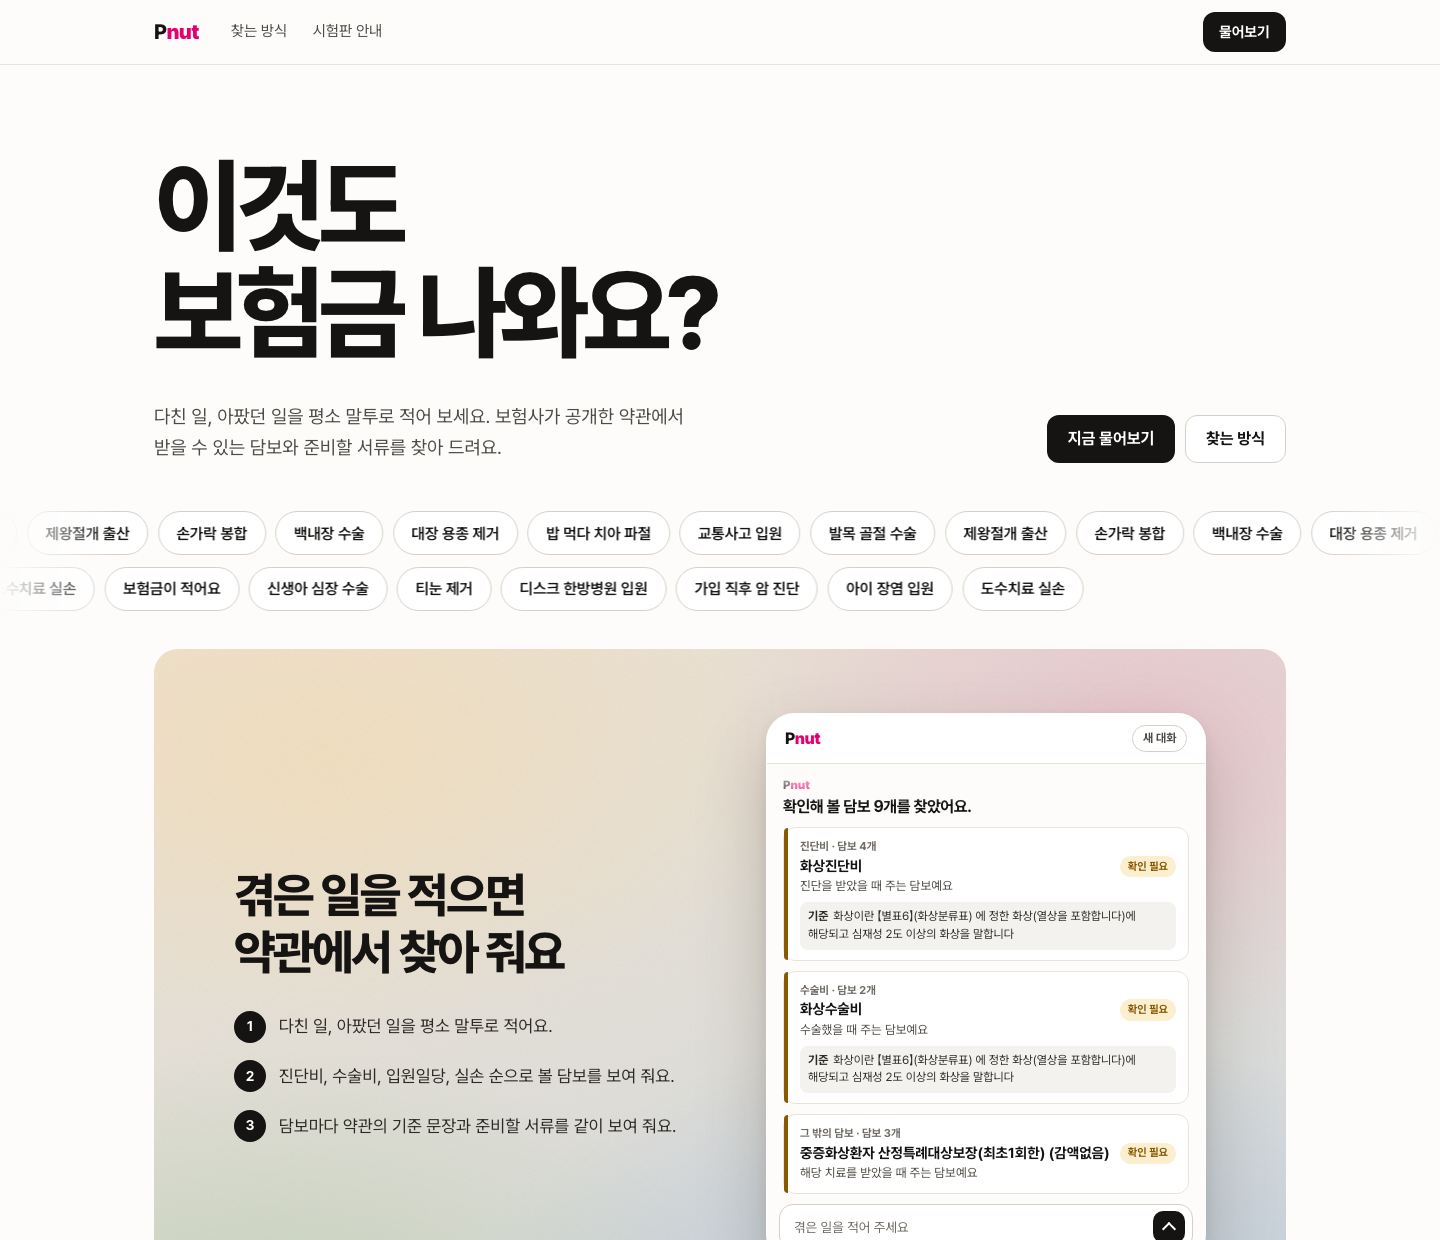
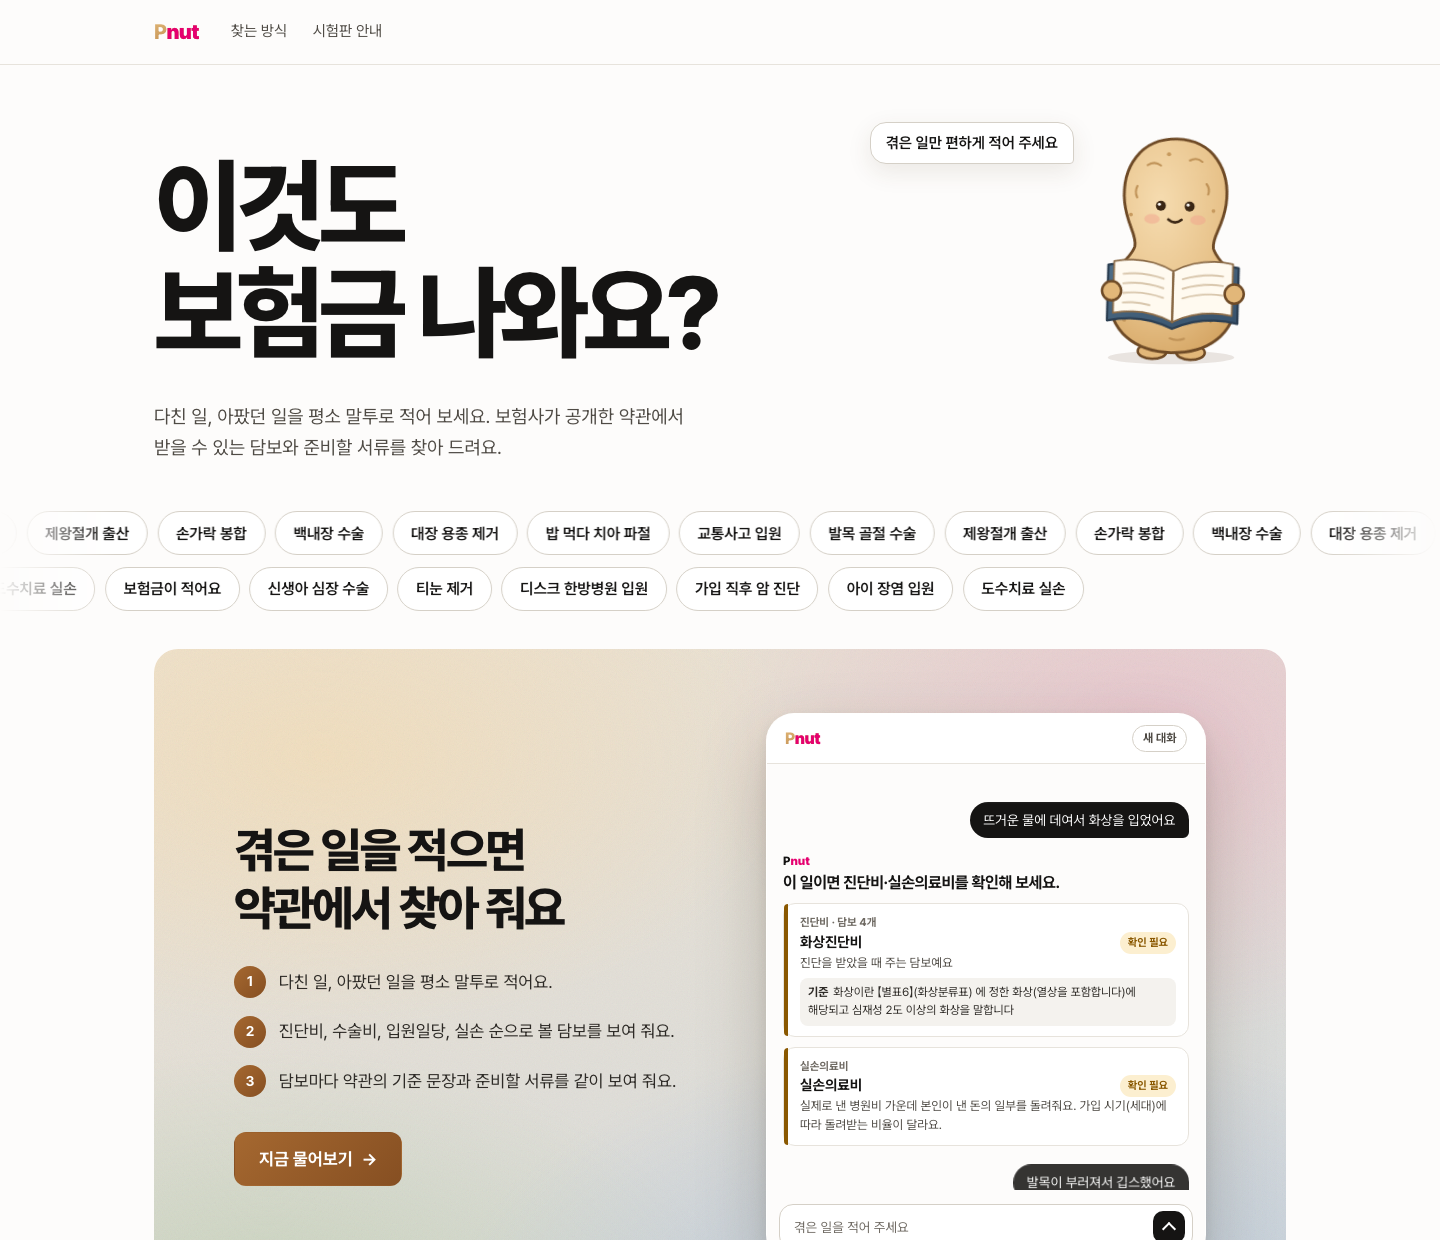
docs: 큰 분류 답과 땅콩 소개 화면 반영(foundshu-00042)
- 작동 원리에 사건 → 질병/상해 → 큰 분류 단계와 상태 셋(해당·그랬다면·해당 안 됨) 추가
- 설계 판단 두 줄('2주' 낱말이 끌어온 엉뚱한 첫 카드, 병 이름만 맞는 담보를 '해당'으로 올린 문제)
- 큰 분류 초안 20문항 측정과 한계, 질문 62개 평가 유지 기록
- 화면 4장을 배포판과 같은 코드로 다시 찍고 해시·설명 갱신, 다음 단계 정리

diff --git a/README.md b/README.md
@@ -2,7 +2,7 @@
 
 [![검증](https://github.com/wpalswpa/foundshu-rag-evidence/actions/workflows/verify.yml/badge.svg)](https://github.com/wpalswpa/foundshu-rag-evidence/actions/workflows/verify.yml)
 
-다친 일이나 아팠던 일을 평소 말로 적으면, 보험사가 공시한 약관 원문에서 확인할 담보를 찾아 진단비, 수술비, 입원일당, 실손 순으로 보여 준다. 담보마다 약관의 기준 문장, 빠지는 경우, 준비할 서류를 함께 붙인다. 보험금이 나오는지 정하지는 않는다. 약관을 펴기 전에 "어느 담보의 어느 조항을 읽어야 하는가"까지 좁혀 주는 것이 목적이다. 2026-11-12에 이름을 찾았슈에서 피넛(로고 Pnut)으로 바꿨다.
+다친 일이나 아팠던 일을 평소 말로 적으면, 먼저 "이 일이면 진단비·실손의료비를 확인해 보세요"처럼 확인할 보험금의 큰 분류를 알려 준다. 분류마다 보험사가 공시한 약관 원문에서 찾은 담보를 진단비, 수술비, 입원일당, 실손 순으로 보이고, 약관의 기준 문장, 빠지는 경우, 준비할 서류를 함께 붙인다. 보험금이 나오는지 정하지는 않는다. 약관을 펴기 전에 "어느 담보의 어느 조항을 읽어야 하는가"까지 좁혀 주는 것이 목적이다. 2026-11-12에 이름을 찾았슈에서 피넛(로고 Pnut)으로 바꿨다.
 
 현재 상태는 다음과 같다.
 
@@ -12,7 +12,7 @@
 
 ## 화면
 
-![소개 화면. 큰 제목 '이것도 보험금 나와요?', 흐르는 예시 단추, 휴대폰 틀 안에 실제 답이 쌓이는 화면](docs/images/intro.png)
+![소개 화면. 큰 제목 '이것도 보험금 나와요?', 책 읽는 땅콩과 말풍선, 흐르는 예시 단추, 휴대폰 틀 안에 실제 답이 쌓이는 화면](docs/images/intro.png)
 
 <p>
   <img src="docs/images/answer-burn.png" width="250" alt="화상 질문의 답. 진단비 묶음의 대표 화상진단비와 심재성 2도 이상이라는 약관 기준 줄, 같은 종류 담보 목록">
@@ -22,8 +22,8 @@
 
 | 질문 | 화면이 보여 주는 것 |
 |---|---|
-| 뜨거운 물에 데여서 화상을 입었어요 | 진단비 묶음의 대표가 화상진단비다. '기준' 줄에 약관 정의(심재성 2도 이상의 화상)를 옮기고, 다른 회사·다른 이름의 같은 종류 담보는 아래 목록으로 접어 둔다 |
-| 백내장 수술했어요 | 담보 12개를 진단비·수술비·종별 수술비(1~5종)·실손 네 묶음으로 보인다. 이름에 '백내장 제외'가 붙은 담보는 빼고, 왜 뺐는지 안내에 남긴다. 준비할 서류는 확인 목록으로 보이고, 실손 묶음 아래에서 실손 보험금 계산을 열 수 있다 |
+| 뜨거운 물에 데여서 화상을 입었어요 | 첫 줄은 "이 일이면 진단비·실손의료비를 확인해 보세요"다. 진단비 칸의 대표가 화상진단비이고, '기준' 줄에 약관 정의(심재성 2도 이상의 화상)를 옮긴다. 다른 회사·다른 이름의 같은 종류 담보는 아래 목록으로 접어 두고, 수술비·입원일당은 '수술했다면', '입원했다면' 줄로 따로 둔다 |
+| 백내장 수술했어요 | 첫 줄은 "이 일이면 질병 수술비·실손의료비를 확인해 보세요"다. 질병 수술비 칸에 증권에서 찾아볼 담보 이름 예시와 수술비·종별 수술비(1~5종) 묶음을 넣고, 실손 칸 아래에서 실손 보험금 계산을 열 수 있다. 이름에 '백내장 제외'가 붙은 담보는 빼고, 왜 뺐는지 안내에 남긴다 |
 | 보험금을 적게 받았어요 | 경위가 없어 담보를 늘어놓지 않고, 대표 사유 네 가지를 고르게 한다 |
 
 ## 작동 원리
@@ -38,7 +38,8 @@ flowchart TD
   P --> S["약관 색인 검색<br>SQLite FTS5 3글자 색인, 특약 단위"]
   S --> N["이름이 맞는 특약 보충<br>화상 → 화상진단비"]
   N --> X["제외 대조<br>이름에서 뺀 병 → 자리를 주지 않고 안내<br>면책 문장에 걸림 → 같은 분류 뒤로"]
-  X --> G["담보 묶음<br>진단비 · 수술비 · 종별 수술비 · 입원일당 · 그 밖 · 실손<br>묶음마다 대표 1장 + 같은 종류 목록"]
+  X --> K["큰 분류<br>질병·상해 → 진단비 · 수술비 · 입원일당 · 실손 등<br>해당 / 그랬다면 / 해당 안 됨"]
+  K --> G["분류 칸 안의 담보 묶음<br>묶음마다 대표 1장 + 같은 종류 목록"]
 ```
 
 1. **경위 확인**: 질문에서 일반어(보험금, 청구, 입원, 수술 등)와 처리 문제 낱말(적게, 거절 등)을 빼고 남는 낱말이 없으면 검색하지 않는다. 대신 사유를 선택지로 묻는다. 바로 앞 답이 되묻기였으면 다시 묻지 않는다.
@@ -46,7 +47,8 @@ flowchart TD
 3. **색인 검색**: 약관 PDF를 특약별 조각(지급, 면책, 한도, 정의 등 역할 표시)으로 나눠 SQLite FTS5 3글자 색인에 넣었다. 낱말 점수가 높은 특약을 찾되, 같은 회사의 같은 이름 담보(여러 상품에 같은 담보가 든 경우)는 한 자리만 쓴다.
 4. **이름 보충**: 질문 낱말이 특약 이름에 들어 있으면(화상 → 화상진단비) 점수와 관계없이 후보에 넣는다.
 5. **제외 대조**: 약관은 보장하는 병을 일일이 적지 않고 빼는 병만 이름에 적는다. 그래서 병 이름으로 검색하면 그 병을 뺀 특약이 먼저 걸린다. 이름의 '(…제외)' 괄호에 질문의 병이 있으면 순위를 매길 때부터 자리를 주지 않고 안내에 남긴다. 면책 문장에 질문의 병이 걸린 담보는 같은 분류의 다른 담보 뒤로 보낸다.
-6. **묶음 구성**: 담보를 진단비, 수술비, 종별 수술비(1~5종 등), 입원일당, 그 밖, 실손 묶음으로 보인다. 묶음마다 대표 담보 한 장(지급 조항의 정의 문장을 '기준' 줄로)과 같은 종류 담보 목록을 두고, 목록을 누르면 그 자리에서 약관 문장이 펼쳐진다. 사건이 질병이면 상해 담보를 뒤로 보낸다(반대도 같다). 수술이면 수술분류표에서 몇 종인지 읽는다. 치료를 받았으면 실손 묶음을 넣는다.
+6. **큰 분류**: 질문한 사람의 가입 상황을 모르므로 담보 이름을 맞히는 대신 확인할 보험금의 종류를 먼저 정한다. 사건을 질병과 상해로 나누고(온톨로지의 질환 구분, 없으면 원인 낱말), 진단비·수술비·입원일당·간병·그 밖의 치료비·실손마다 상태를 셋 중 하나로 정한다. '해당'은 질문에 근거가 있을 때, '그랬다면'은 질문에 없지만 그 병에서 흔할 때(수술했다면 → 수술비), '해당 안 됨'은 약관이 보상하지 않는다고 정한 경우다(임신·출산의 실손은 실손 표준약관 쪽수와 함께 보인다). 담보 이름은 '증권에서 이런 이름을 찾아보세요'로 예시만 보인다. 규칙은 데이터 표 한 곳에 둔다.
+7. **묶음 구성**: 담보를 진단비, 수술비, 종별 수술비(1~5종 등), 입원일당, 그 밖, 실손 묶음으로 보인다. 묶음마다 대표 담보 한 장(지급 조항의 정의 문장을 '기준' 줄로)과 같은 종류 담보 목록을 두고, 목록을 누르면 그 자리에서 약관 문장이 펼쳐진다. 사건이 질병이면 상해 담보를 뒤로 보낸다(반대도 같다). 수술이면 수술분류표에서 몇 종인지 읽는다. 치료를 받았으면 실손 묶음을 넣는다.
 
 **읽기 방식**은 구현했지만 공개판에서는 꺼 두었다. 위 검색에 더해 다음을 거친다.
 
@@ -70,6 +72,8 @@ flowchart TD
 | 약관을 14개에서 71개로 늘리자 같은 담보 카드가 겹치고 답이 길어졌다(화상 질문에 화상진단비 5장) | 같은 회사·같은 이름 담보는 검색 자리 하나, 같은 종류 담보는 한 묶음(대표 1장 + 목록) | 담보마다 카드 한 장이면 약관이 늘수록 답이 길어진다. 같은 종류 담보는 지급 조건의 짜임과 서류가 비슷하다 |
 | "갑상선에 혹… 암이래요"처럼 떨어져 쓰면 유사암 담보를 못 찾았다 | 사건 읽기가 부위로 묶은 질환과 약관의 묶음 이름(유사암)을 검색 계획에 넣는다 | 낱말 점수만으로는 이름이 다른 유사암진단비가 20위 밖으로 밀렸다 |
 | 판단 목록이 코드에 흩어져 있었다 | 담보 순서, 일반어, 제외 표시, 되묻기 선택지를 데이터 파일로 분리하고 코드는 표만 적용한다 | 목록이 코드 안에 있으면 바꿀 때마다 코드를 고쳐야 한다 |
+| 질문 낱말 하나가 엉뚱한 특약을 첫 카드로 끌어왔다("어머니가 뇌경색으로 쓰러지셔서 2주 입원" → '2주' 낱말로 자동차사고상해진단(2주 이상)) | 숫자와 단위 낱말은 검색어에서 빼고, 답은 사건 → 질병/상해 → 큰 분류를 먼저 정한 뒤 그 분류 안에 담보를 보인다 | 가입 상황을 모르는 질문에서 담보 이름을 정확히 맞히는 것은 목표가 될 수 없다. 큰 분류는 수가 적어 규칙 표로 정하고 빠짐·엉뚱함을 잴 수 있다 |
+| 약관에 병 이름이 든 담보가 있으면 그 분류를 바로 '해당'으로 올렸다(디스크 진단비, 독감 항바이러스제 치료비 등 11개) | 진단비는 진단비 담보가 흔한 병만 '해당', 나머지는 '그 병의 진단비가 있는 보험이라면'으로 둔다. 치료비는 사용자가 말한 치료 낱말만 '해당'으로 본다 | 일부 상품에만 있는 담보까지 '해당'으로 올리면 엉뚱한 분류가 된다 |
 | 학습용 질문 기록이 클라우드에서 남지 않았다 | 동의한 질문만 가려서, 질문 하나를 파일 하나로 저장소 버킷에 답을 보내기 전에 올린다. 버킷에는 365일 삭제 규칙을 건다 | 컨테이너 안 SQLite 파일은 요청이 없어 인스턴스가 0대로 줄면 사라졌다. SQLite 파일을 버킷에 붙여 쓰면 잠금 문제가 생긴다. 답을 보낸 뒤 올리면 Cloud Run이 CPU를 거의 멈춰 기록이 늦거나 빠질 수 있다 |
 
 ## 측정 결과
@@ -84,6 +88,7 @@ flowchart TD
 
 - 같은 질문으로 잰 변화: 첫 측정(약관 14개) 찾음 10 · 잘못 표시 10 · 못 찾음 12 → '안 나와요' 단정을 없앤 뒤 20 · 0 · 12 → 약관 71개와 묶음 질환·실손 보강 뒤 23 · 0 · 9.
 - 못 찾은 9개에는 고객 말과 약관 말이 먼 질문("온몸 사진 찍는 검사" → 양전자단층촬영, "간질" → 뇌전증, "피를 못 만드는 병" → 재생불량성빈혈)과, 담보가 아니라 계약 조건을 묻는 질문(특별조건부, 이륜자동차 부담보)이 섞여 있다.
+- 큰 분류(2026-11-12): 질문 20개(필수 분류 칸 39개)의 정답을 구현 전에 약관 구조로 적어 두고 쟀다. 첫 측정에서 엉뚱한 분류 11개가 나와 규칙을 고친 뒤 빠진 분류 0/39, 엉뚱한 분류 0, 나오면 안 되는 분류 0, 질병·상해 판단 틀림 0이다. 정답은 실무자가 확인하기 전의 초안이고, 이 세트로 규칙을 다듬었으므로 세트 밖 질문에서의 성능을 보여 주지는 않는다. 위 질문 62개 평가는 큰 분류를 넣은 뒤에도 같다(찾음 23 · 잘못 표시 0 · 못 찾음 9, 과장 0).
 - 공개판(클라우드, CPU 1개) 응답: 2026-11-12 리비전 foundshu-00041에서 질문 4개로 쟀다. 인스턴스가 켜져 있을 때 0.3~1.1초, 새로 뜬 뒤 첫 질문은 2.2초였다.
 - 읽기 방식은 금감원 분쟁 사례 181개로 평가 자료를 답을 보기 전에 고정했지만, 아직 돌리지 않았다.
 - 배포 전에 확인하는 행동: 이름에서 뺀 병의 특약이 카드에 없다(백내장, 대장 용종, 갑상선암, 치아). 관계없는 제외는 남는다(위암 질문의 '유사암 제외' 암진단비, 발목 골절 질문의 '치아파절 제외' 골절진단비). 같은 회사·같은 이름 담보는 한 장이다. 모든 담보가 정확히 한 묶음에 들어간다. 경위가 없으면 모델을 부르지 않는다.
@@ -103,10 +108,9 @@ flowchart TD
 
 계획이며 아직 구현하지 않았다.
 
-1. 사건을 질병과 상해로 나눈 뒤 입원일당·수술금·진단비·실손 같은 큰 분류로 먼저 답한다. 질문한 사람의 가입 상황을 모르므로 담보 이름은 예시로만 보인다.
-2. 실무자가 정답을 정한 질문으로 분류 단위의 누락과 오분류를 잰다.
-3. 원문 읽기를 외부 AI 대신 로컬 모델이나 직접 띄운 모델 서빙으로 옮기고, 동의를 받아 모은 질문을 학습 자료로 쓴다.
-4. 나머지 보험사 약관과 판매 중지·지난 판을 수집한다.
+1. 실무자가 큰 분류 정답 세트를 확인한 판으로 다시 재고, 세트 밖 질문으로 평가를 넓힌다.
+2. 원문 읽기를 외부 AI 대신 로컬 모델이나 직접 띄운 모델 서빙으로 옮기고, 동의를 받아 모은 질문을 학습 자료로 쓴다.
+3. 나머지 보험사 약관과 판매 중지·지난 판을 수집한다.
 
 ## 이전 실험: 계약 범위 검색
 

diff --git a/docs/screenshots.md b/docs/screenshots.md
@@ -1,12 +1,12 @@
 # 서비스 화면
 
-공개 시연판에 배포한 판(2026-11-12, foundshu-00041)과 같은 코드를 로컬에서 실행하고 예시 질문을 넣어 찍었다. 실제 고객 자료가 아니며, 이미지를 합성하거나 결과 문구를 바꾸지 않았다. 화면 아래의 입력 칸은 실제 화면처럼 답 위에 떠 있는 상태 그대로다. 질문 저장 동의 막대는 답을 가리지 않도록 '동의 안 함'을 눌러 닫은 뒤 찍었다. 화면별 SHA-256과 찍은 판은 [기록](../evidence/screenshots.json)에 있다.
+공개 시연판에 배포한 판(2026-11-12, foundshu-00042)과 같은 코드를 로컬에서 실행하고 예시 질문을 넣어 찍었다. 실제 고객 자료가 아니며, 이미지를 합성하거나 결과 문구를 바꾸지 않았다. 화면 아래의 입력 칸은 실제 화면처럼 답 위에 떠 있는 상태 그대로다. 질문 저장 동의 막대는 답을 가리지 않도록 '동의 안 함'을 눌러 닫은 뒤 찍었다. 화면별 SHA-256과 찍은 판은 [기록](../evidence/screenshots.json)에 있다.
 
 | 화면 | 넣은 질문 | 보여 주는 것 | 범위 |
 |---|---|---|---|
-| [소개](images/intro.png) | 없음 | 첫 화면 제목, 흐르는 예시 단추, 휴대폰 틀 안에 실제 답이 아래부터 쌓이는 화면(움직임이 끝난 뒤) | 데스크톱 1440px |
-| [화상 답](images/answer-burn.png) | 뜨거운 물에 데여서 화상을 입었어요 | 진단비 묶음의 대표 화상진단비, 약관 정의를 옮긴 '기준' 줄, 지급 조항, 출처 쪽수, 같은 종류 담보 목록 | 모바일 390px |
-| [묶음과 제외 대조](images/answer-exclusion.png) | 백내장 수술했어요 | 진단비·수술비·종별 수술비·실손 묶음, 실손 계산 열기, 이름에 '백내장 제외'가 붙은 담보를 뺐다는 안내, 수술 종 분류, 준비할 서류 확인 목록 | 모바일 390px |
+| [소개](images/intro.png) | 없음 | 첫 화면 제목, 책 읽는 땅콩과 말풍선, 흐르는 예시 단추, 휴대폰 틀 안에 실제 답이 아래부터 쌓이는 화면(움직임이 끝난 뒤) | 데스크톱 1440px |
+| [화상 답](images/answer-burn.png) | 뜨거운 물에 데여서 화상을 입었어요 | 큰 분류 첫 줄, 진단비 칸의 대표 화상진단비, 약관 정의를 옮긴 '기준' 줄, 지급 조항, 출처 쪽수, 같은 종류 담보 목록 | 모바일 390px |
+| [묶음과 제외 대조](images/answer-exclusion.png) | 백내장 수술했어요 | 큰 분류 첫 줄, 질병 수술비 칸의 찾아볼 이름 예시와 수술비·종별 수술비 묶음, 실손 칸과 실손 계산 열기, '그랬다면' 줄, 이름에 '백내장 제외'가 붙은 담보를 뺐다는 안내, 수술 종 분류 | 모바일 390px |
 | [되묻기](images/clarify.png) | 보험금을 적게 받았어요 | 경위가 없어 대표 사유 네 가지를 선택지로 보임 | 모바일 390px |
 
 화면 속 약관 문장은 보험사가 공시한 약관의 인용이다. 담보 카드는 질문한 사람의 계약이 아니라 색인된 다른 보험사 약관의 예시이고, 모든 카드가 '확인 필요'인 것은 검색만 방식이 지급 여부를 단정하지 않기 때문이다. 지급 확정 결과로 읽으면 안 된다.
